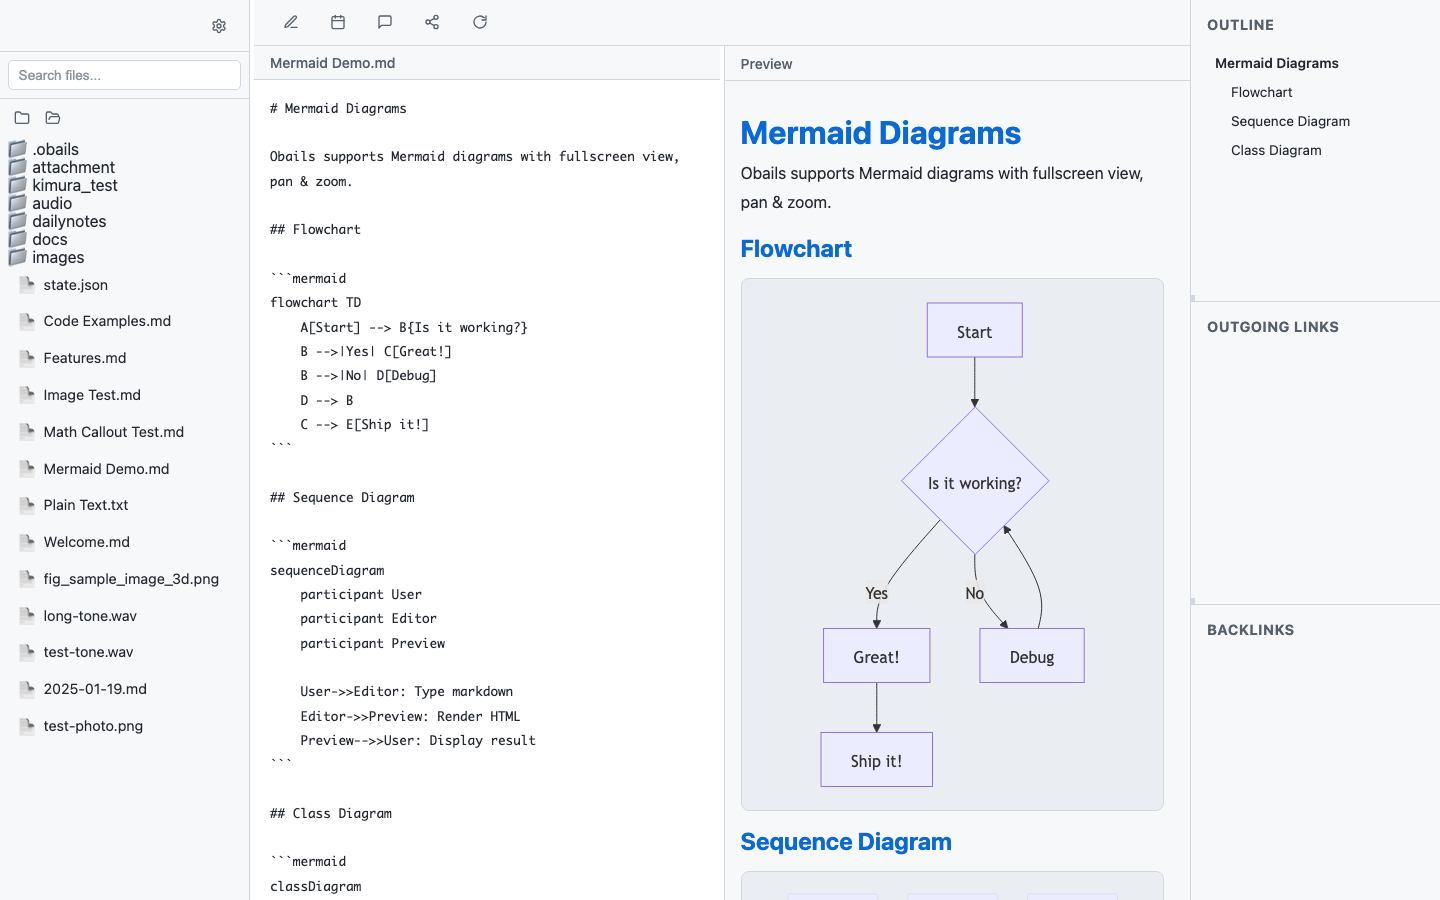
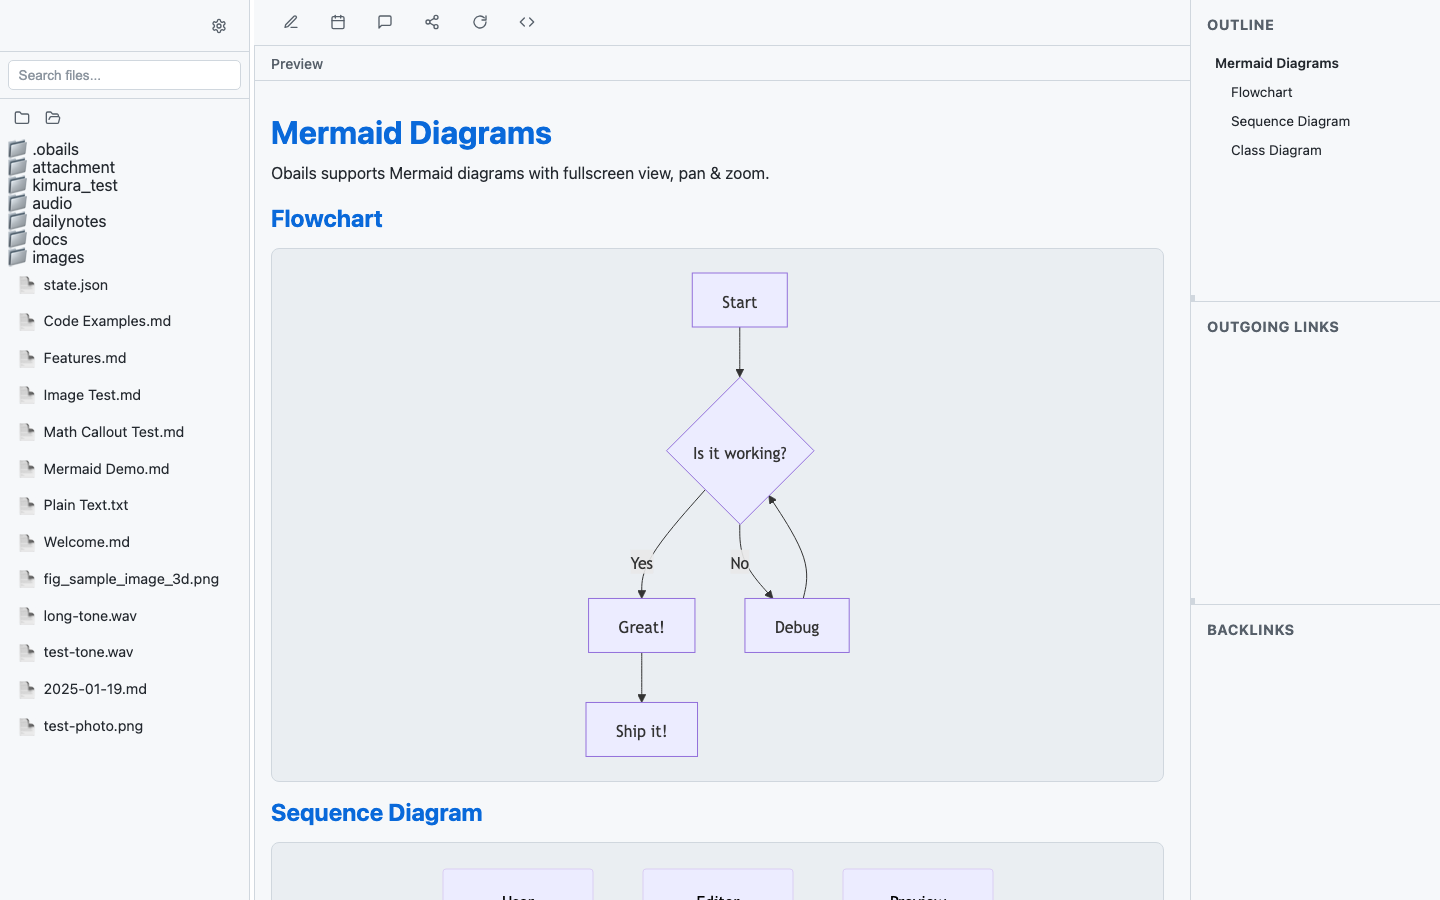
Default to preview-only view with a source toggle
Markdown notes now open in preview-only mode. A new < > toolbar
button (and Cmd+E) toggles the source editor pane for viewing and
editing. README screenshots regenerated for the new default layout.

diff --git a/e2e/app.spec.ts b/e2e/app.spec.ts
@@ -1,6 +1,13 @@
 import { test, expect, Page } from '@playwright/test';
 import { setupMockBindings } from './helpers/mock-bindings';
 
+async function showSourceEditor(page: Page): Promise<void> {
+  const container = page.locator('.editor-container');
+  if (await container.evaluate((el) => el.classList.contains('source-hidden'))) {
+    await page.locator('#source-toggle-btn').click();
+  }
+}
+
 async function selectThemeFromMenu(page: Page, theme: string): Promise<void> {
   await page.evaluate((selectedTheme) => {
     const wails = (window as any)._wails;
@@ -498,6 +505,45 @@ test.describe('Obails App', () => {
     await expect(preview.locator('code', { hasText: '$not_math$' })).toBeVisible();
   });
 
+  test('should show preview only by default and toggle source with the code button', async ({ page }) => {
+    await setupMockBindings(page);
+    await page.goto('/');
+    await page.waitForLoadState('domcontentloaded');
+
+    await page.locator('.file-item[data-path="Welcome.md"]').click();
+
+    // デフォルトはプレビューのみ（ソースは非表示）
+    await expect(page.locator('#preview-pane')).toBeVisible();
+    await expect(page.locator('#editor-pane')).toBeHidden();
+    await expect(page.locator('#source-toggle-btn')).toHaveAttribute('aria-pressed', 'false');
+
+    // < > トグルでソース表示
+    await page.locator('#source-toggle-btn').click();
+    await expect(page.locator('#editor-pane')).toBeVisible();
+    await expect(page.locator('#editor')).toHaveValue(/Welcome/);
+    await expect(page.locator('#source-toggle-btn')).toHaveAttribute('aria-pressed', 'true');
+
+    // もう一度押すと非表示に戻る
+    await page.locator('#source-toggle-btn').click();
+    await expect(page.locator('#editor-pane')).toBeHidden();
+    await expect(page.locator('#preview-pane')).toBeVisible();
+  });
+
+  test('should toggle source editor with Cmd+E', async ({ page }) => {
+    await setupMockBindings(page);
+    await page.goto('/');
+    await page.waitForLoadState('domcontentloaded');
+
+    await page.locator('.file-item[data-path="Welcome.md"]').click();
+    await expect(page.locator('#editor-pane')).toBeHidden();
+
+    await page.keyboard.press('ControlOrMeta+e');
+    await expect(page.locator('#editor-pane')).toBeVisible();
+
+    await page.keyboard.press('ControlOrMeta+e');
+    await expect(page.locator('#editor-pane')).toBeHidden();
+  });
+
   test('should show Open Finder for folder context menu', async ({ page }) => {
     await setupMockBindings(page);
     await page.goto('/');
@@ -783,6 +829,7 @@ test.describe('Obails App', () => {
   test('should have resize handles that work', async ({ page }) => {
     await page.goto('/');
     await page.waitForLoadState('networkidle');
+    await showSourceEditor(page);
 
     // Verify resize handles exist
     const sidebarResize = page.locator('#sidebar-resize');
@@ -822,6 +869,7 @@ test.describe('Editor', () => {
   test('should have editor textarea and accept input', async ({ page }) => {
     await page.goto('/');
     await page.waitForLoadState('networkidle');
+    await showSourceEditor(page);
 
     const editor = page.locator('#editor');
     await expect(editor).toBeVisible();
@@ -838,6 +886,7 @@ test.describe('Editor', () => {
   test('should render markdown in preview pane', async ({ page }) => {
     await page.goto('/');
     await page.waitForLoadState('networkidle');
+    await showSourceEditor(page);
 
     const preview = page.locator('#preview-pane #preview');
     await expect(page.locator('#preview-pane')).toBeVisible();
@@ -859,6 +908,7 @@ test.describe('Editor', () => {
   test('should convert wiki links in preview', async ({ page }) => {
     await page.goto('/');
     await page.waitForLoadState('networkidle');
+    await showSourceEditor(page);
 
     const editor = page.locator('#editor');
     const preview = page.locator('.preview-pane #preview');
@@ -1078,6 +1128,7 @@ test.describe('Outline', () => {
   test('should display outline with headings from content', async ({ page }) => {
     await page.goto('/');
     await page.waitForLoadState('networkidle');
+    await showSourceEditor(page);
 
     const editor = page.locator('#editor');
 
@@ -1120,6 +1171,7 @@ Final content.`);
   test('should scroll to correct position on single outline click', async ({ page }) => {
     await page.goto('/');
     await page.waitForLoadState('networkidle');
+    await showSourceEditor(page);
 
     const editor = page.locator('#editor');
 
@@ -1196,6 +1248,7 @@ Final content.`);
   test('should set cursor position when clicking outline item', async ({ page }) => {
     await page.goto('/');
     await page.waitForLoadState('networkidle');
+    await showSourceEditor(page);
 
     const editor = page.locator('#editor');
 
@@ -1237,6 +1290,7 @@ test.describe('Keyboard Navigation', () => {
   test('should focus file tree with Shift+Tab from editor', async ({ page }) => {
     await page.goto('/');
     await page.waitForLoadState('networkidle');
+    await showSourceEditor(page);
 
     // First focus the editor
     const editor = page.locator('#editor');
@@ -1255,6 +1309,7 @@ test.describe('Keyboard Navigation', () => {
   test('should focus editor with Shift+Tab from file tree', async ({ page }) => {
     await page.goto('/');
     await page.waitForLoadState('networkidle');
+    await showSourceEditor(page);
 
     const editor = page.locator('#editor');
     const fileTree = page.locator('#file-tree');
@@ -1318,6 +1373,7 @@ test.describe('Keyboard Navigation', () => {
   test('keyboard navigation state should be isolated per focus cycle', async ({ page }) => {
     await page.goto('/');
     await page.waitForLoadState('networkidle');
+    await showSourceEditor(page);
 
     const editor = page.locator('#editor');
     const fileTree = page.locator('#file-tree');
@@ -1342,6 +1398,7 @@ test.describe('Keyboard Navigation', () => {
   test('should reset cursor and scroll when editor value changes', async ({ page }) => {
     await page.goto('/');
     await page.waitForLoadState('networkidle');
+    await showSourceEditor(page);
 
     const editor = page.locator('#editor');
 
@@ -1838,6 +1895,7 @@ test.describe('Title Editing', () => {
   test('should not allow editing when no file is open', async ({ page }) => {
     await page.goto('/');
     await page.waitForLoadState('networkidle');
+    await showSourceEditor(page);
 
     // Title should show default text when no file is open
     const editorTitle = page.locator('#editor-title');
@@ -1855,6 +1913,7 @@ test.describe('Title Editing', () => {
   test('should have clickable title with cursor pointer style', async ({ page }) => {
     await page.goto('/');
     await page.waitForLoadState('networkidle');
+    await showSourceEditor(page);
 
     // Title should exist
     const editorTitle = page.locator('#editor-title');

diff --git a/frontend/src/lib/icons.ts b/frontend/src/lib/icons.ts
@@ -21,6 +21,7 @@ export type IconName =
   | "folder-plus"
   | "external-link"
   | "copy"
+  | "code"
   | "trash"
   | "page-single"
   | "page-continuous";
@@ -48,6 +49,7 @@ const ICONS: Record<IconName, string> = {
   "folder-plus": `<svg xmlns="http://www.w3.org/2000/svg" width="16" height="16" viewBox="0 0 24 24" fill="none" stroke="currentColor" stroke-width="2" stroke-linecap="round" stroke-linejoin="round" aria-hidden="true"><path d="M20 20a2 2 0 0 0 2-2V8a2 2 0 0 0-2-2h-7.9a2 2 0 0 1-1.69-.9L9.6 3.9A2 2 0 0 0 7.93 3H4a2 2 0 0 0-2 2v13a2 2 0 0 0 2 2Z"/><path d="M12 10v6"/><path d="M9 13h6"/></svg>`,
   "external-link": `<svg xmlns="http://www.w3.org/2000/svg" width="16" height="16" viewBox="0 0 24 24" fill="none" stroke="currentColor" stroke-width="2" stroke-linecap="round" stroke-linejoin="round" aria-hidden="true"><path d="M15 3h6v6"/><path d="M10 14 21 3"/><path d="M18 13v6a2 2 0 0 1-2 2H5a2 2 0 0 1-2-2V8a2 2 0 0 1 2-2h6"/></svg>`,
   copy: `<svg xmlns="http://www.w3.org/2000/svg" width="16" height="16" viewBox="0 0 24 24" fill="none" stroke="currentColor" stroke-width="2" stroke-linecap="round" stroke-linejoin="round" aria-hidden="true"><rect width="14" height="14" x="8" y="8" rx="2" ry="2"/><path d="M4 16c-1.1 0-2-.9-2-2V4c0-1.1.9-2 2-2h10c1.1 0 2 .9 2 2"/></svg>`,
+  code: `<svg xmlns="http://www.w3.org/2000/svg" width="16" height="16" viewBox="0 0 24 24" fill="none" stroke="currentColor" stroke-width="2" stroke-linecap="round" stroke-linejoin="round" aria-hidden="true"><path d="m16 18 6-6-6-6"/><path d="m8 6-6 6 6 6"/></svg>`,
   trash: `<svg xmlns="http://www.w3.org/2000/svg" width="16" height="16" viewBox="0 0 24 24" fill="none" stroke="currentColor" stroke-width="2" stroke-linecap="round" stroke-linejoin="round" aria-hidden="true"><path d="M3 6h18"/><path d="M19 6v14a2 2 0 0 1-2 2H7a2 2 0 0 1-2-2V6"/><path d="M8 6V4a2 2 0 0 1 2-2h4a2 2 0 0 1 2 2v2"/></svg>`,
   "page-single": `<svg xmlns="http://www.w3.org/2000/svg" width="16" height="16" viewBox="0 0 24 24" fill="none" stroke="currentColor" stroke-width="2" stroke-linecap="round" stroke-linejoin="round" aria-hidden="true"><rect x="6" y="3" width="12" height="18" rx="2"/></svg>`,
   "page-continuous": `<svg xmlns="http://www.w3.org/2000/svg" width="16" height="16" viewBox="0 0 24 24" fill="none" stroke="currentColor" stroke-width="2" stroke-linecap="round" stroke-linejoin="round" aria-hidden="true"><rect x="6" y="2" width="12" height="9" rx="1.5"/><rect x="6" y="13" width="12" height="9" rx="1.5"/></svg>`,

diff --git a/frontend/src/main.ts b/frontend/src/main.ts
@@ -245,6 +245,7 @@ function setupToolbarIcons() {
     setButtonIcon(document.getElementById("timeline-btn")!, "timeline");
     setButtonIcon(document.getElementById("graph-btn")!, "graph");
     setButtonIcon(document.getElementById("refresh-btn")!, "refresh");
+    setButtonIcon(document.getElementById("source-toggle-btn")!, "code");
     setButtonIcon(document.getElementById("collapse-all-folders-btn")!, "folder-closed");
     setButtonIcon(document.getElementById("expand-all-folders-btn")!, "folder-open");
     setButtonIcon(document.getElementById("mini-player-close")!, "close");
@@ -421,6 +422,19 @@ async function prefetchGraphData() {
     }
 }
 
+// Source editor visibility (default: preview only, < > toggles the source pane)
+function toggleSourceEditor() {
+    const hidden = editorContainer.classList.toggle("source-hidden");
+    const btn = document.getElementById("source-toggle-btn");
+    if (btn) {
+        btn.setAttribute("aria-pressed", hidden ? "false" : "true");
+        btn.classList.toggle("active", !hidden);
+    }
+    if (!hidden) {
+        editor.focus();
+    }
+}
+
 // Event Listeners
 function setupEventListeners() {
     document.getElementById("settings-btn")!.addEventListener("click", openSettings);
@@ -429,6 +443,7 @@ function setupEventListeners() {
     document.getElementById("timeline-btn")!.addEventListener("click", toggleTimeline);
     document.getElementById("graph-btn")!.addEventListener("click", toggleGraphView);
     document.getElementById("refresh-btn")!.addEventListener("click", refresh);
+    document.getElementById("source-toggle-btn")!.addEventListener("click", toggleSourceEditor);
     document.getElementById("timeline-submit")!.addEventListener("click", submitTimeline);
     miniPlayerClose.addEventListener("click", stopAudioPlayback);
     audioLoopBtn.addEventListener("click", toggleAudioLoopMode);
@@ -560,6 +575,10 @@ function setupEventListeners() {
         if (isModKey(e) && e.key === "g") {
             e.preventDefault();
             toggleGraphView();
+        }
+        if (isModKey(e) && e.key === "e") {
+            e.preventDefault();
+            toggleSourceEditor();
         }
         // ESC to close overlays (skip if file tree is focused - handled separately)
         if (e.key === "Escape" && !fileTreeFocused) {

diff --git a/frontend/index.html b/frontend/index.html
@@ -34,6 +34,7 @@
                     <button id="timeline-btn" class="toolbar-icon-btn" title="Timeline" aria-label="Timeline"></button>
                     <button id="graph-btn" class="toolbar-icon-btn" title="Graph View (⌘G)" aria-label="Graph View"></button>
                     <button id="refresh-btn" class="toolbar-icon-btn" title="Refresh" aria-label="Refresh"></button>
+                    <button id="source-toggle-btn" class="toolbar-icon-btn" title="Toggle Source (⌘E)" aria-label="Toggle Source" aria-pressed="false"></button>
                 </div>
                 <div class="toolbar-center">
                     <div class="mini-player" id="mini-player" style="display: none;">
@@ -67,7 +68,7 @@
                 </div>
             </div>
 
-            <div class="editor-container">
+            <div class="editor-container source-hidden">
                 <div class="editor-pane" id="editor-pane">
                     <div class="pane-header" id="editor-header">
                         <span class="pane-title" id="editor-title">Select a note...</span>
@@ -290,6 +291,10 @@
                     <div class="shortcut-row">
                         <span class="shortcut-keys"><kbd class="mod-key">⌘</kbd> + <kbd>G</kbd></span>
                         <span class="shortcut-desc">Toggle Graph View</span>
+                    </div>
+                    <div class="shortcut-row">
+                        <span class="shortcut-keys"><kbd class="mod-key">⌘</kbd> + <kbd>E</kbd></span>
+                        <span class="shortcut-desc">Toggle Source Editor</span>
                     </div>
                     <div class="shortcut-row">
                         <span class="shortcut-keys"><kbd class="mod-key">⌘</kbd> + <kbd>,</kbd></span>

diff --git a/e2e/visual-regression.spec.ts b/e2e/visual-regression.spec.ts
@@ -390,6 +390,11 @@ test.describe('Visual Regression - Feature Tests', () => {
   });
 
   test('Editor resize handles', async ({ page }) => {
+    // ソースエディタを表示してから操作する
+    const sourceContainer = page.locator('.editor-container');
+    if (await sourceContainer.evaluate((el) => el.classList.contains('source-hidden'))) {
+      await page.locator('#source-toggle-btn').click();
+    }
     // エディタを入力状態に
     const editor = page.locator('#editor');
     await editor.fill('# Resize Demo\n\nDrag the resize handles to adjust pane sizes.');

diff --git a/frontend/src/styles/main.css b/frontend/src/styles/main.css
@@ -1813,6 +1813,17 @@ body {
     color: var(--error);
 }
 
+/* Source editor toggle: デフォルトはプレビューのみ表示 */
+.editor-container.source-hidden .editor-pane,
+.editor-container.source-hidden .resize-handle.vertical {
+    display: none;
+}
+
+.toolbar-icon-btn.active {
+    color: var(--accent);
+    background: color-mix(in srgb, var(--accent) 12%, transparent);
+}
+
 /* Preview images: ノート幅に収める（原寸描画による横スクロール防止） */
 #preview img {
     max-width: 100%;
